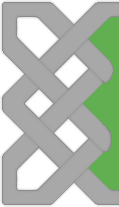
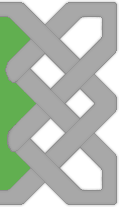
ALI-39 Healtbar drawing, not bound to camera and too big

diff --git a/FYP/UI_bar.cpp b/FYP/UI_bar.cpp
@@ -7,14 +7,24 @@ UI_bar::UI_bar()
 
 UI_bar::UI_bar(float x, float y, string type, float legnth)
 {
+	m_mid_pos.x = 110;
+	m_right_pos.x = 360;
+	m_left_tex.loadFromFile("Assets/UI/" + type + "_bar_left.png");
+	m_mid_tex.loadFromFile("Assets/UI/" + type + "_bar_mid.png");
+	m_right_tex.loadFromFile("Assets/UI/" + type + "_bar_right.png");
 
+	m_left_sprite.setTexture(m_left_tex);
+	m_mid_sprite.setTexture(m_mid_tex);
+	m_mid_sprite.setScale(7, 1);
+	m_right_sprite.setTexture(m_right_tex);
+
+	isVisible = true;
 }
 
 void UI_bar::Update()
 {
 	m_left_sprite.setPosition(m_left_pos);
 	m_mid_sprite.setPosition(m_mid_pos);
-	m_mid_sprite.setScale(1, m_length);
 	m_right_sprite.setPosition(m_right_pos);
 }
 

diff --git a/FYP/GameScene.cpp b/FYP/GameScene.cpp
@@ -32,6 +32,8 @@ void GameScene::Init()
 	Player::GetInstance()->Init(3000,2500);
 	Camera::GetInstance()->Init(1400,900);
 	testKanine = new Kanine(700,400);
+
+	temp_healtbar = new UI_bar(3000, 2500, "Health", 70);
 }
 
 void GameScene::Update()
@@ -40,6 +42,7 @@ void GameScene::Update()
 	testKanine->Update();
 	
 	// check player doesnt leave bounding area
+	temp_healtbar->Update();
 }
 
 void GameScene::Draw(sf::RenderWindow &win)
@@ -47,4 +50,5 @@ void GameScene::Draw(sf::RenderWindow &win)
 	win.draw(*m_map);
 	Player::GetInstance()->Draw(win);
 	testKanine->Draw(win);
+	temp_healtbar->Draw(win);
 }

diff --git a/FYP/GameScene.h b/FYP/GameScene.h
@@ -9,6 +9,7 @@
 #include "Camera.h"
 #include <list>
 #include "STP\TMXLoader.hpp"
+#include "UI_bar.h"
 
 class GameScene
 {
@@ -21,6 +22,8 @@ private:
 	Kanine* testKanine;
 
 	tmx::TileMap* m_map;
+
+	UI_bar* temp_healtbar;
 public:
 	static GameScene* GetInstance();
 	~GameScene()
